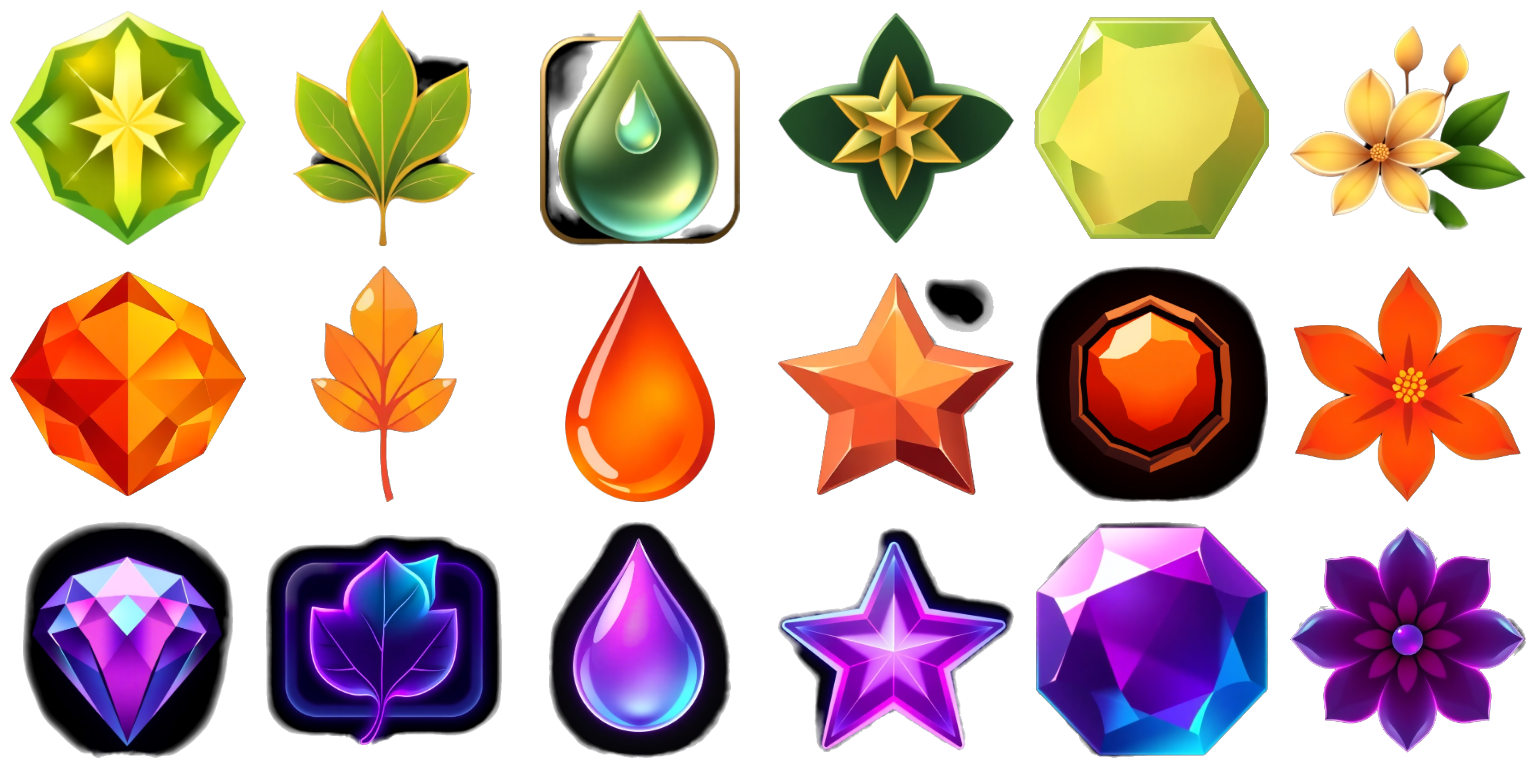
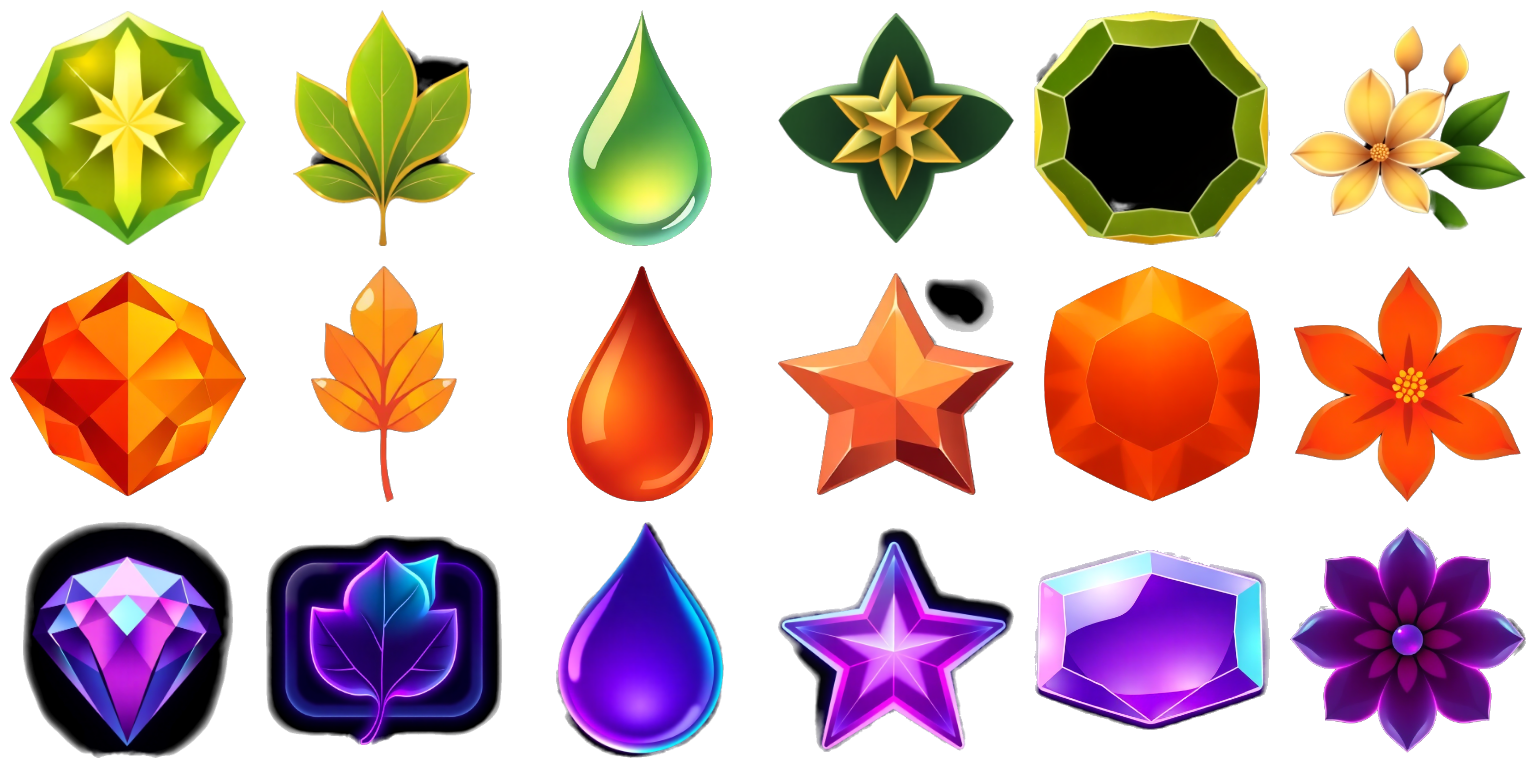
feat: regen drops+hexagons (no-frame) + darker Ember board — cleaner sprite tiles
Regenerated the 6 framed tiles (drops + hexagons) with a no-frame prompt, bg-removed
+ repacked; re-vendored kit with the darker Ember board. Sprite tiles now fill the
cells uniformly, backgrounds clean, and Ember reads clearly. ~$0.14 spent total.

Changed region(s): [[0.3438, 0.0, 0.5, 1.0], [0.6562, 0.3438, 0.8438, 1.0], [0.6562, 0.0, 0.8438, 0.3125]]

diff --git a/vendor/game-kit/src/theme/index.ts b/vendor/game-kit/src/theme/index.ts
@@ -323,8 +323,11 @@ const EMBER_REACH: ThemeDef = {
   id: 'ember-reach',
   name: 'Ember Reach',
   palette: {
-    bg: '#1f0f0a',
-    surface: '#2e150c',
+    // Board pulled darker + less orange (was #1f0f0a / #2e150c) so the warm
+    // orange/red tiles pop instead of blending into a warm board (Director:
+    // "the orange level is hard to see").
+    bg: '#100603',
+    surface: '#1b0d06',
     text: '#fff1e0',
     accent: '#f2872f',
     glow: '#ffb347',